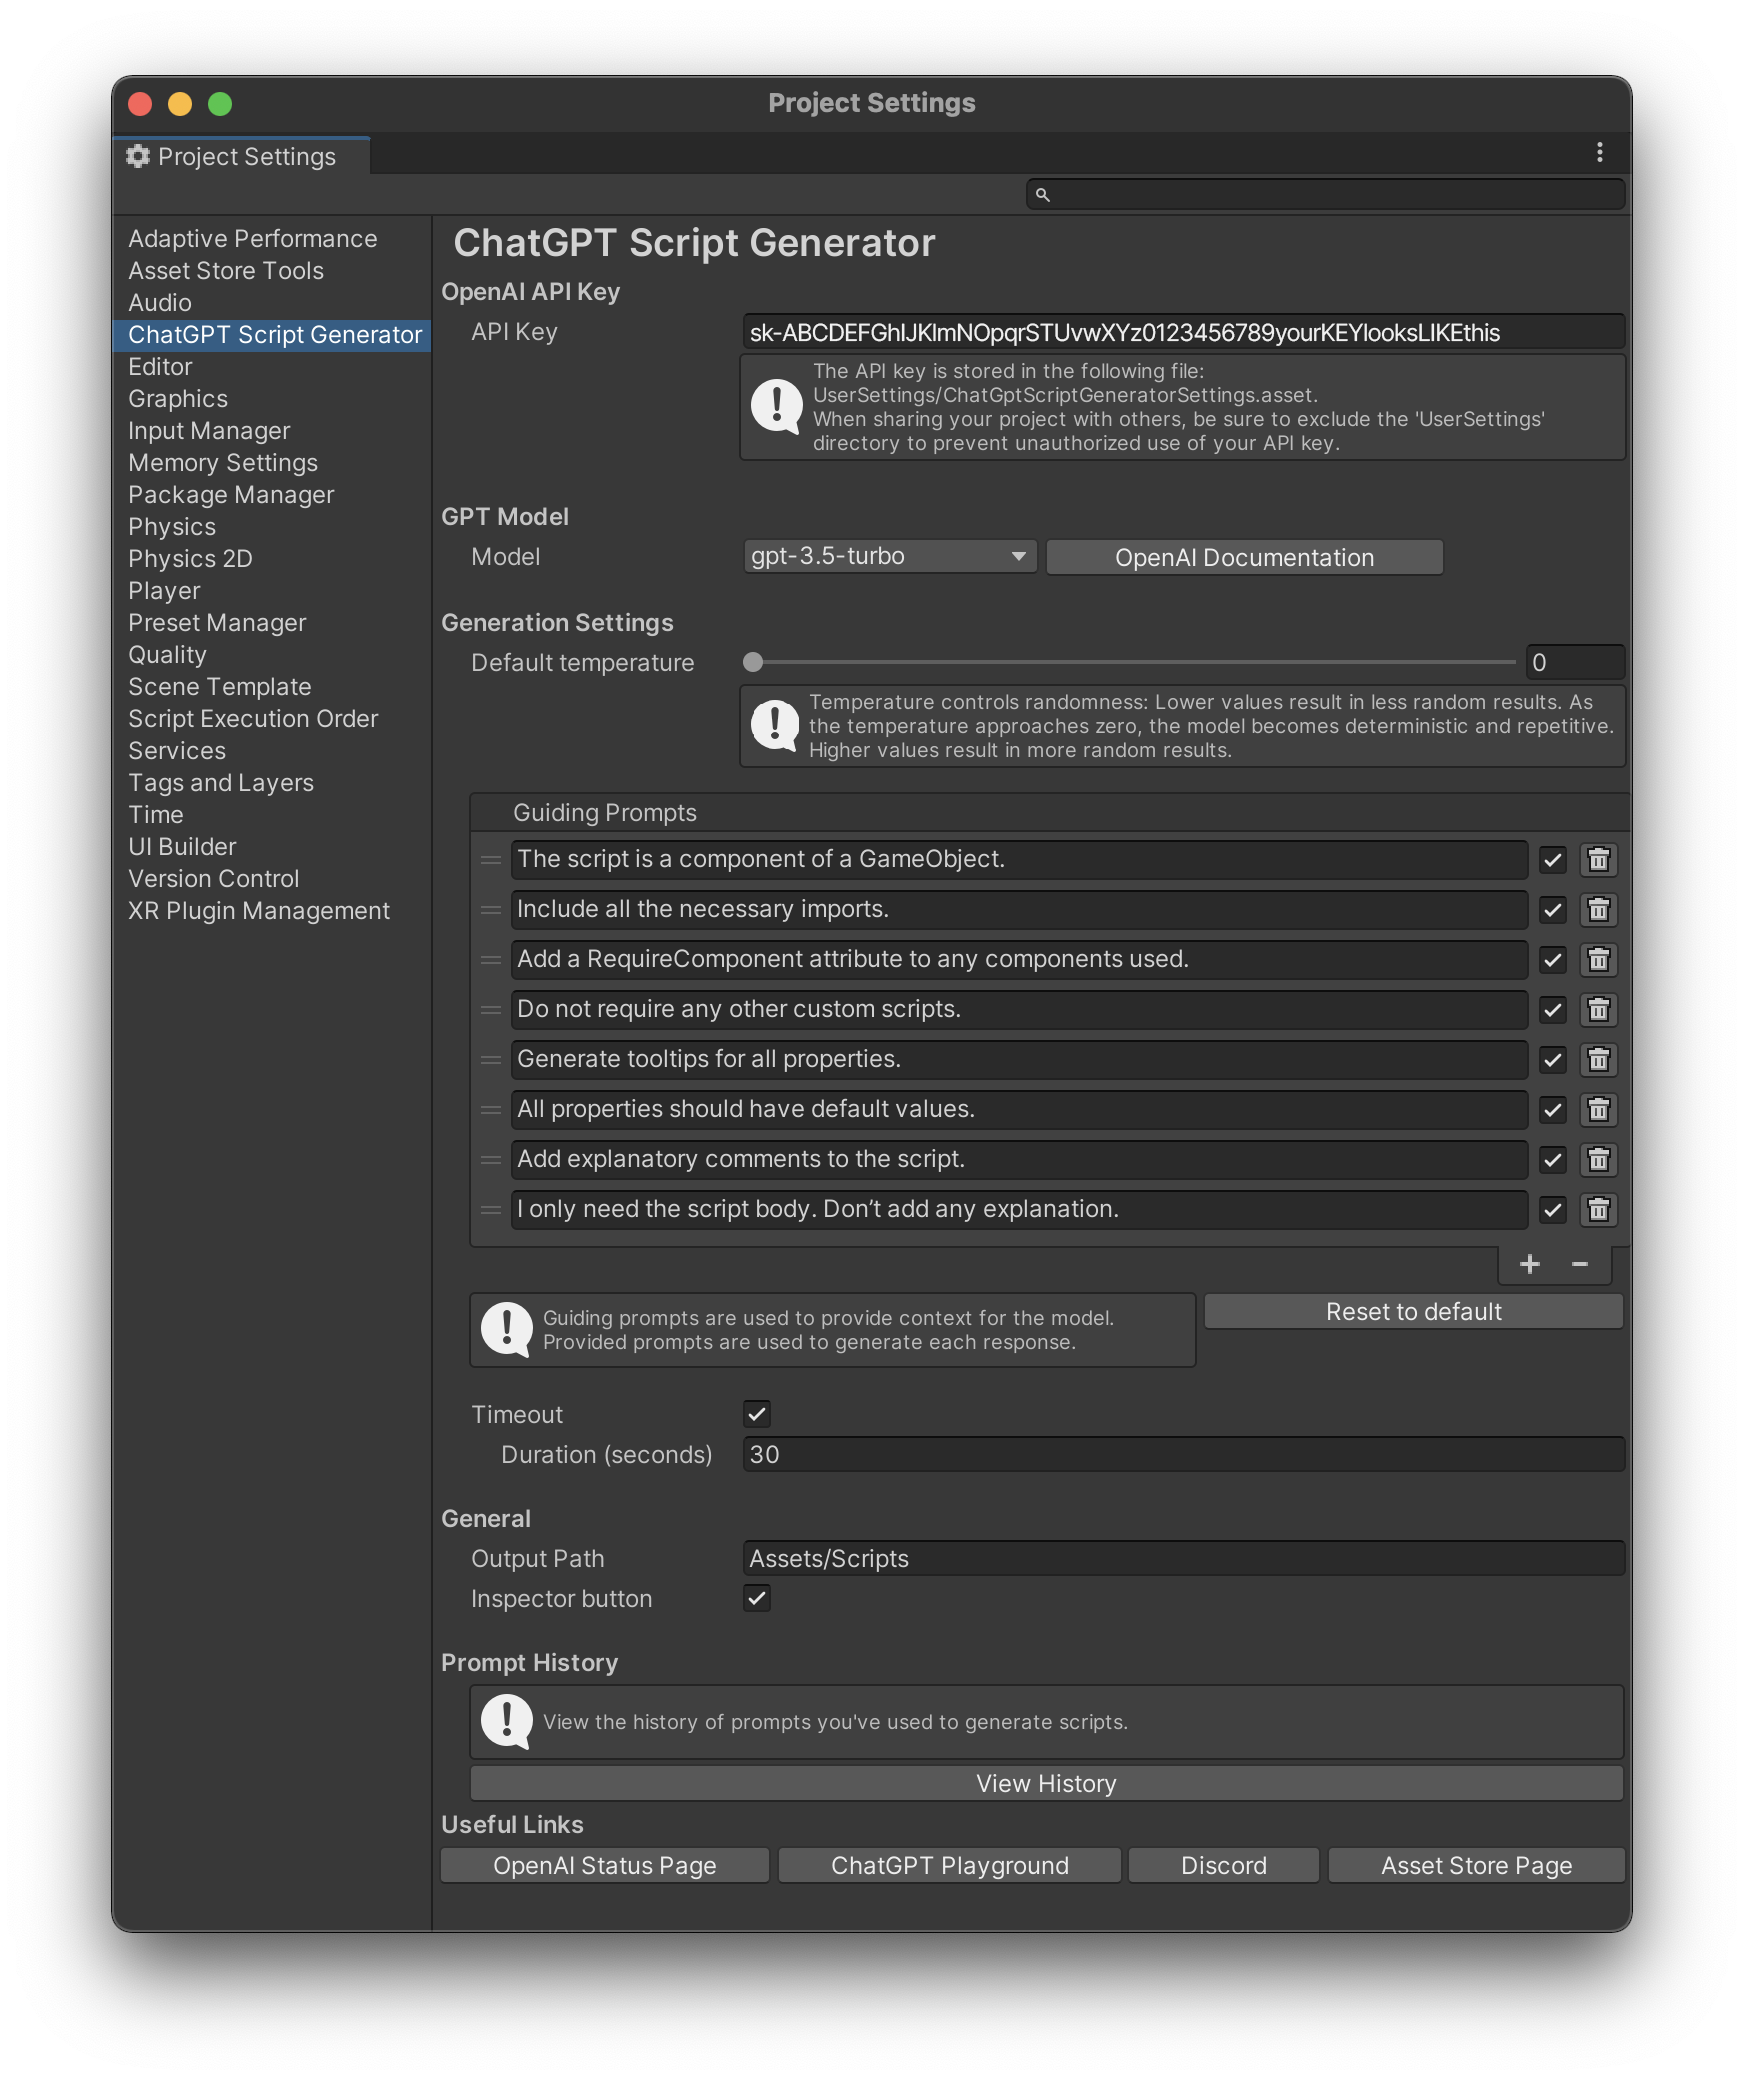
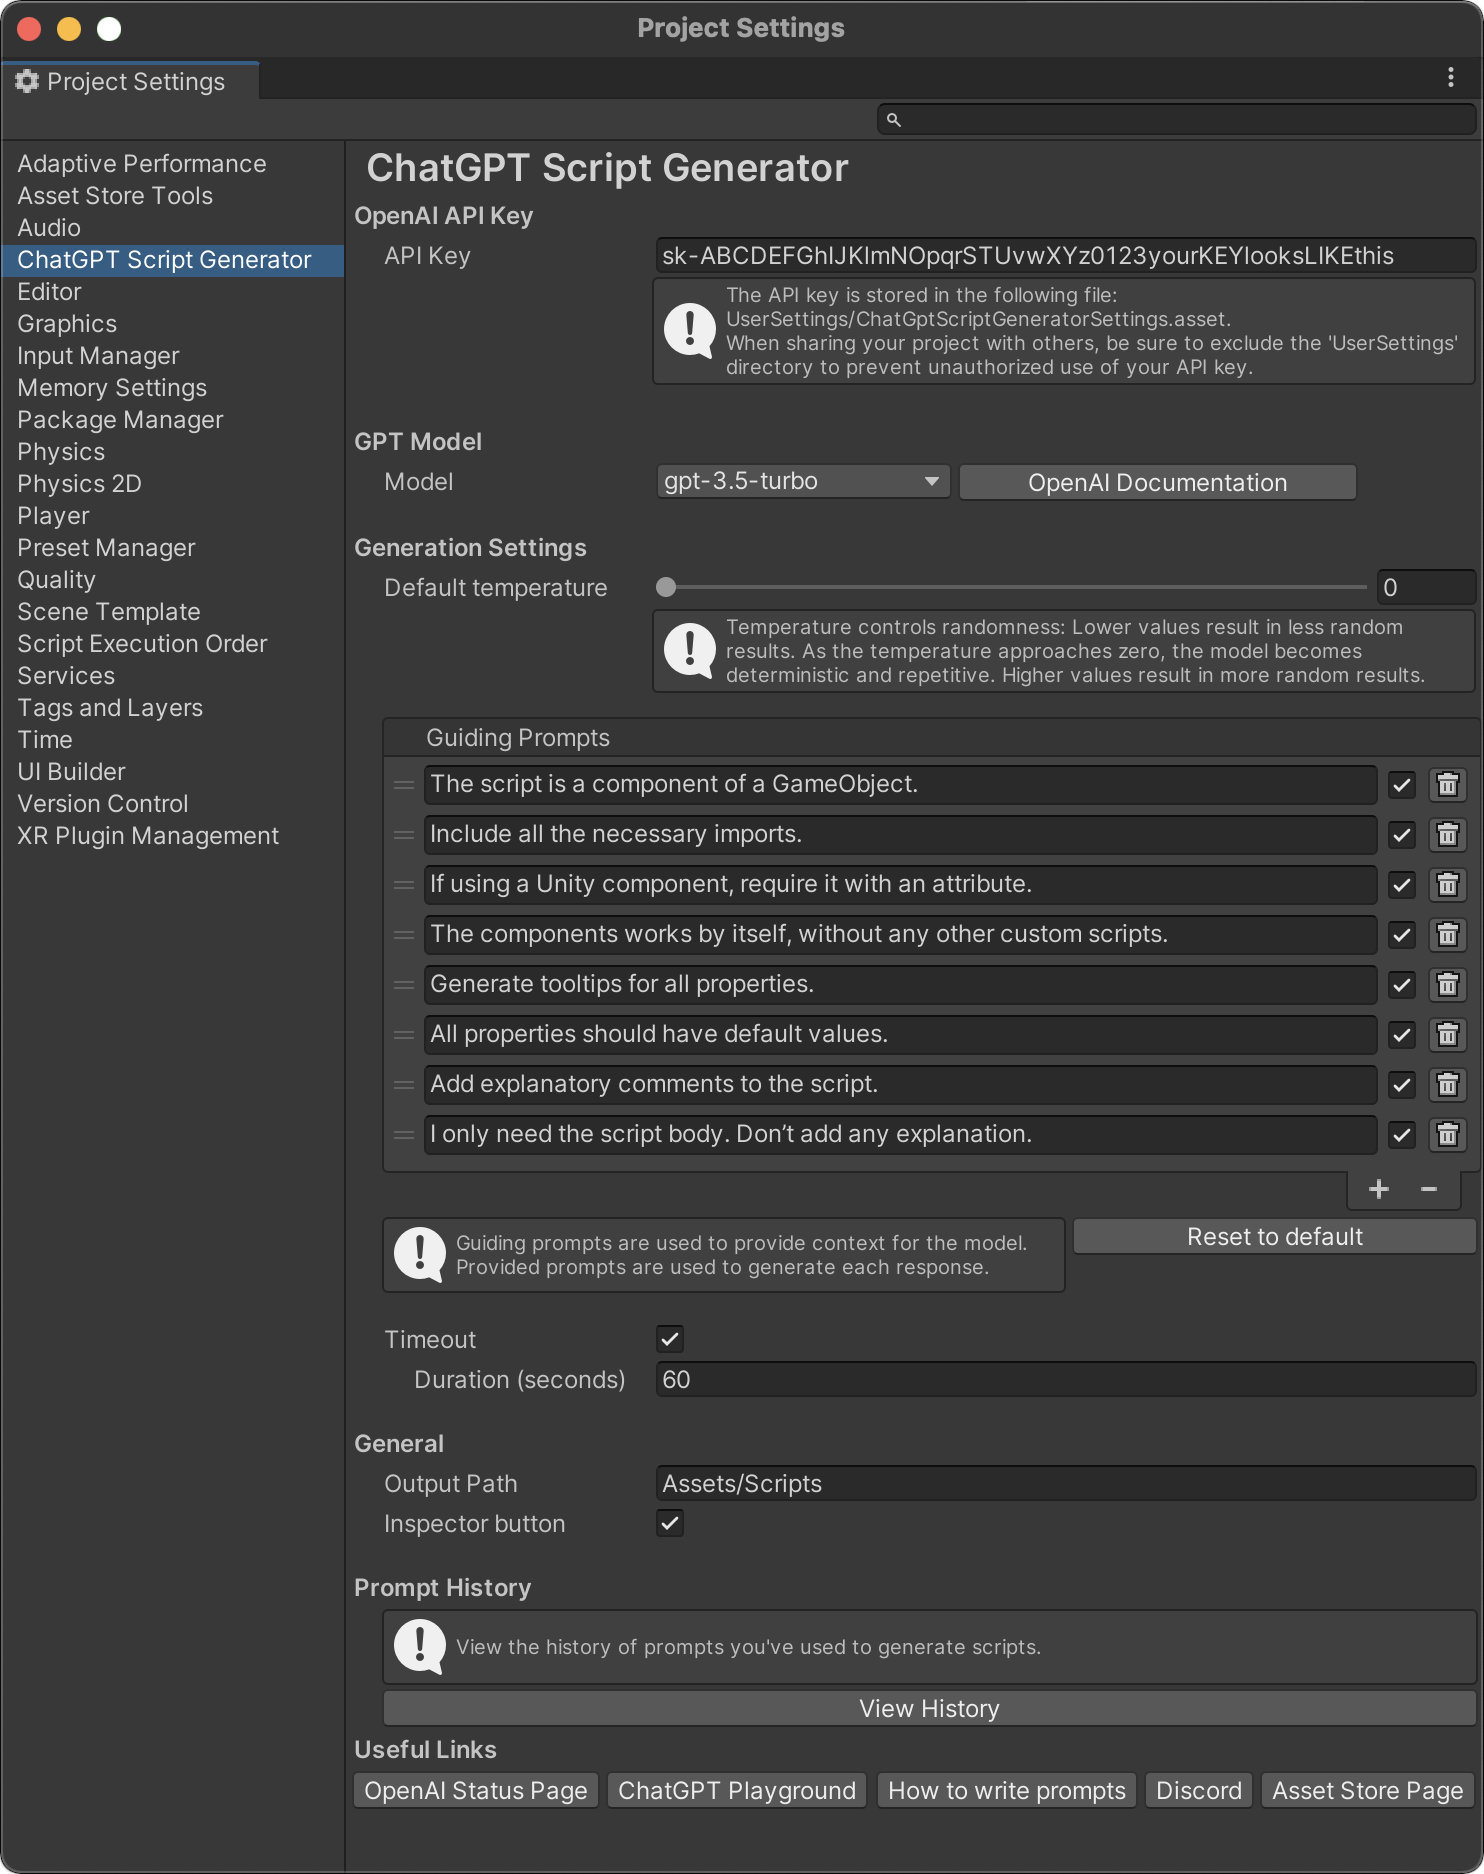
images updated

diff --git a/_docs/40.getting-started.md b/_docs/40.getting-started.md
@@ -37,10 +37,9 @@ Type your request in the prompt window and click **"Generate and Add"** to start
 {:.image-caption}
 The prompt window
 
-- **Advanced Options** — if expanded, reveals the [**Temperature**](/getting-started/#temperature), [**Timeout**](/getting-started/#timeout) and [**History**](/getting-started/#prompt-history) parameters, mirrored from the [_Settings panel_](/getting-started/#chatgpt-script-generator-settings) (which can be found in _Edit_ ▶ _Project Settings_ ▶ _ChatGPT Script Generator_).
+- **Advanced Options** — if expanded, reveals the [**Temperature**](/getting-started/#temperature), [**Timeout**](/getting-started/#timeout), [**History**](/getting-started/#prompt-history) parameters, [How To Write Prompts](/how-to-write-prompts/) button , mirrored from the [_Settings panel_](/getting-started/#chatgpt-script-generator-settings) (which can be found in _Edit_ ▶ _Project Settings_ ▶ _ChatGPT Script Generator_).
 
 - **Save to History** — Enable this option to save the generated script to the history. [_History_](/getting-started/#prompt-history) can be accessed with the "_History_" button in this window or in the [_Settings panel_](/getting-started/#chatgpt-script-generator-settings).
-- **How to write prompts** — Click this button to open the [How To Write Prompts](/how-to-write-prompts/) page in your browser.
 
 ![The prompt window](/assets/images/manual_images/sg-prompt-window-1_2.png){: .image-simple }
 
@@ -156,6 +155,12 @@ History settings
 History settings window
 
 ### Useful Links
+
+- **OpenAI Status Page** opens the [OpenAI Status Page](https://status.openai.com/){:target="_blank"} in your browser.
+- **ChatGPT Playground** opens the [ChatGPT Playground](https://playground.openai.com/){:target="_blank"} in your browser.
+- **How to write prompts** opens the [How to write prompts](/how-to-write-prompts/){:target="_blank"} page of this documentation in your browser.
+- **Discord** opens ChatGPT Script Generator support [Discord] (https://discord.gg/xqfh46kKfw){:target="_blank"} channel in your browser.
+- **Asset Store Page** opens the [ChatGPT Script Generator](https://u3d.as/334o?aid=1101lHzQ){:target="_blank"} page in your browser.
 
 <a href="/assets/images/manual_images/sg-project-settings-useful-links.png">
 ![Useful Links](/assets/images/manual_images/sg-project-settings-useful-links.png)

diff --git a/_docs/50.how-to-write-prompts.md b/_docs/50.how-to-write-prompts.md
@@ -10,17 +10,17 @@ You can get decent and perfectly working results if you know what to ask from Ch
 
 Below you can find a few good articles and videos that shed some light on the topic. Thay are not exactly tailored for Unity, but you can get familiar with some of best practices and tips on how to write better prompts and iterate them.
 
-## Articles
+# Articles
 
 [Best Practices for Prompt Engineering with OpenAI API](https://help.openai.com/en/articles/6654000-best-practices-for-prompt-engineering-with-openai-api){:target="_blank"}
 
 [How and Why to Use ChatGPT to Generate Code Snippets](https://www.griproom.com/fun/how-and-why-to-use-chat-gpt-to-generate-code-snippets){:target="_blank"}
 
-## Videos
+# Videos
 
 [Creating a Space Game with OpenAI Codex](https://youtu.be/Zm9B-DvwOgw){:target="_blank"}
 
-## Our tips
+# Our tips
 
 ### Be specific
 Clearly describe the desired functionality, inputs, and outputs to help the AI understand your requirements. Mention any specific libraries, frameworks, or coding conventions you want to be used.

diff --git a/_docs/20.installation.md b/_docs/20.installation.md
@@ -50,7 +50,7 @@ Once you have generated the API key, you need to set it up within Unity:
 Paste the API key in the **Project Settings**
 
 ⚠ Please be aware that the API key is stored in the following file: `UserSettings/ChatGptScriptGeneratorSettings.asset`. When sharing your project with others, be sure to **exclude the "UserSettings" directory** to prevent unauthorized use of your API key.
-{:.notice--warning}
+{:.notice--danger}
 
 ## Welcome Scene
 
